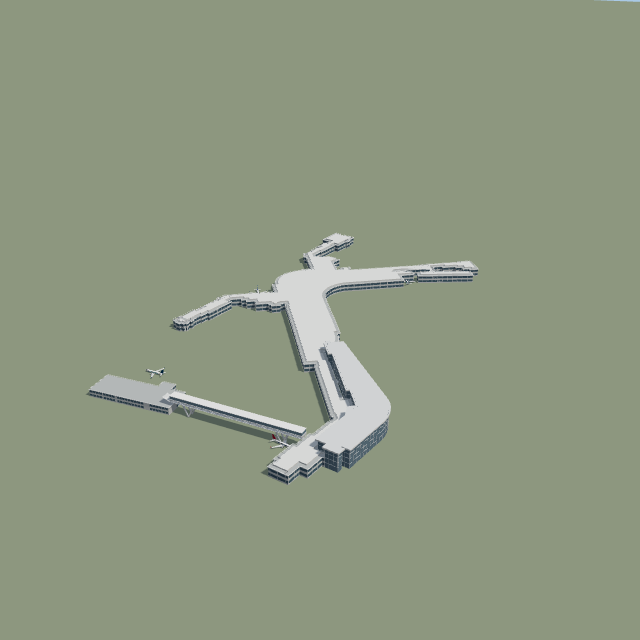
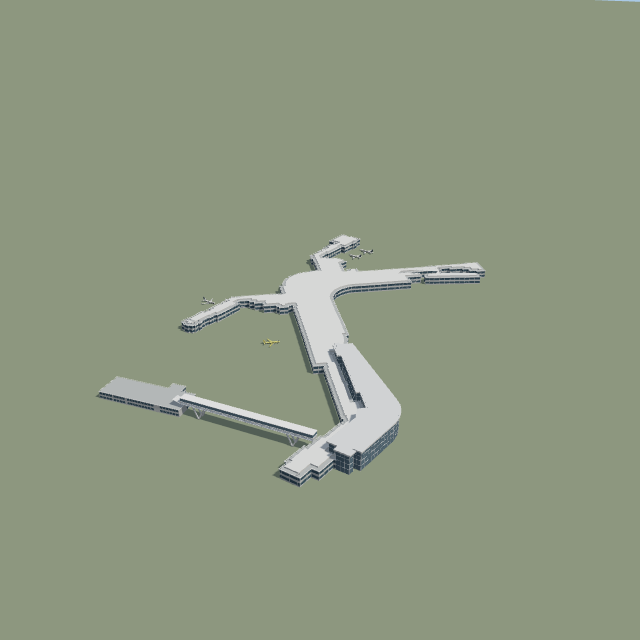
Refresh three SeaTac studies with measured aircraft source provenance

Changed region(s): [[0.2188, 0.3438, 0.7812, 0.7812], [0.125, 0.5625, 0.1875, 0.625], [0.2188, 0.5625, 0.25, 0.5938]]

diff --git a/handoffs/fidelity/us-districts/SEATAC-AIRCRAFT.md b/handoffs/fidelity/us-districts/SEATAC-AIRCRAFT.md
@@ -17,4 +17,6 @@ Passed CPU checks:
 - `node tools/landmarks/us-source-check.mjs` (all 24 US models)
 - `node tools/landmarks/geometry-check.mjs` (all 61 models)
 
-Native corrected-curb/airside images, the three refreshed isolated model studies and final capture provenance are pending the next combined runtime release and completion of the single-browser 437 before walk. No final rendered acceptance is claimed by this source/geometry checkpoint. Atlas/native jobs were held before starting so that they use the next consolidated freeze.
+The three refreshed isolated model studies were captured from immutable `78d7c9efb5cf7157dc2c3e6d02c3def68f0cb2ce` and visually inspected. Their exact cameras, input hashes, timestamps, image hashes and verified lossless RGB equality are retained in `seatac/aircraft/model-studies.json`; the evidence viewer publishes only those game images. The north-up plan shows all four aircraft on the airside of the source terminal. These isolated studies do not establish integrated-world or Street View parity.
+
+Native corrected-curb/airside images and final integrated capture provenance remain pending the next combined runtime release and completion of the single-browser 437 before walk. Atlas/native jobs were held before starting so that they use the next consolidated freeze.
